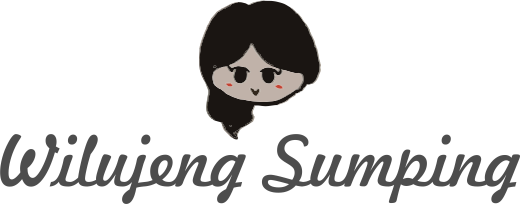
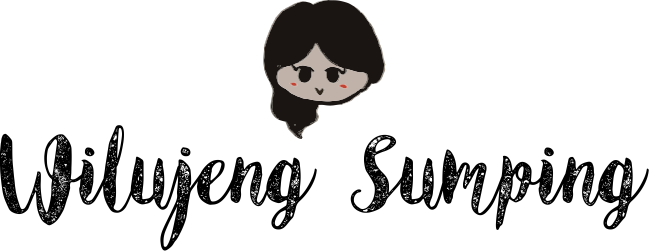
HUWALAKUMBA

Changed region(s): [[0.0, 0.0, 0.6154, 1.0], [0.4923, 0.5294, 1.0, 1.0]]

diff --git a/index.html b/index.html
@@ -29,13 +29,13 @@
               <h3 class="masthead-brand"></h3>              
             </div>
           </header>
-          <img src="./img/logo.png" width="30%" />
+          <img src="./img/logo.png" width="20%" />
           <br><br>
           <main role="main" class="inner cover">
             <div class="test">
             
                 <br>
-            <img src="./img/wilujeng.png" width="80%" style="margin-top:10px;"/>
+            <img src="./img/wilujeng.png" width="60%" style="margin-top:10px;"/>
             <br><br>            
             <p class="lead">
               <input type="text" class ="textinput" id="input1" placeholder="Tulis nama taman yang akan dicari di sini"><br>

diff --git a/css/style.css b/css/style.css
@@ -87,11 +87,11 @@ body{
 		width: 100%;
 		font-weight: 0.5em;
 	}
-	.masthead {
-		margin-bottom: 0;
-	}
+	
 }
-
+.masthead {
+	margin-bottom: 0;
+}
 .mastfoot .inner {
 	margin:0;
     padding:0;
